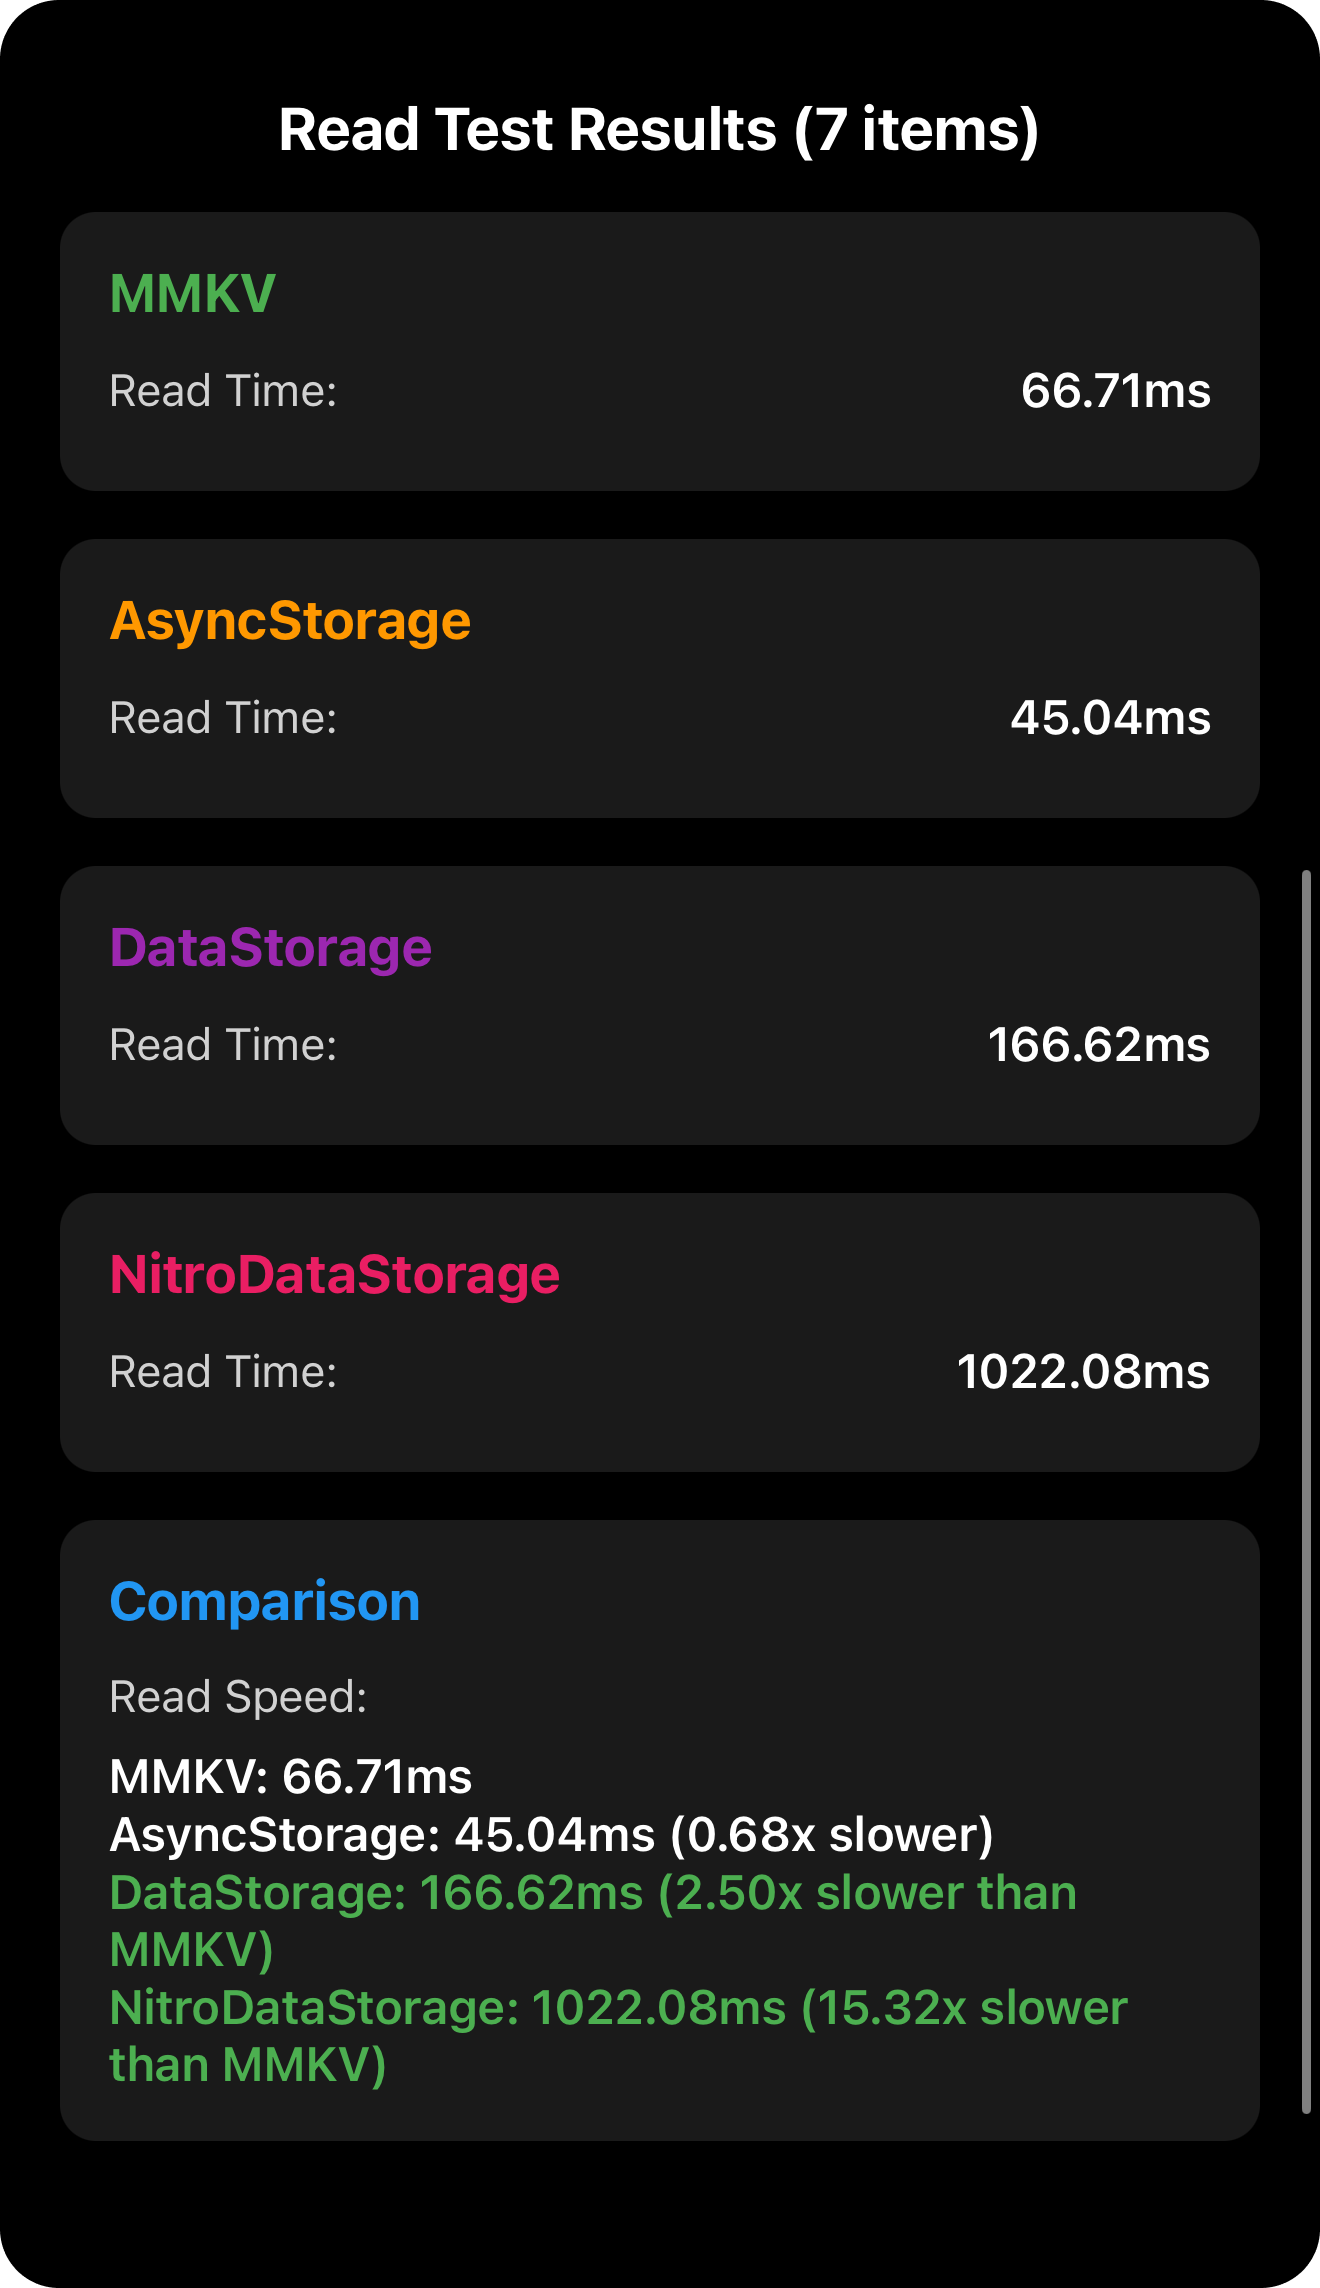
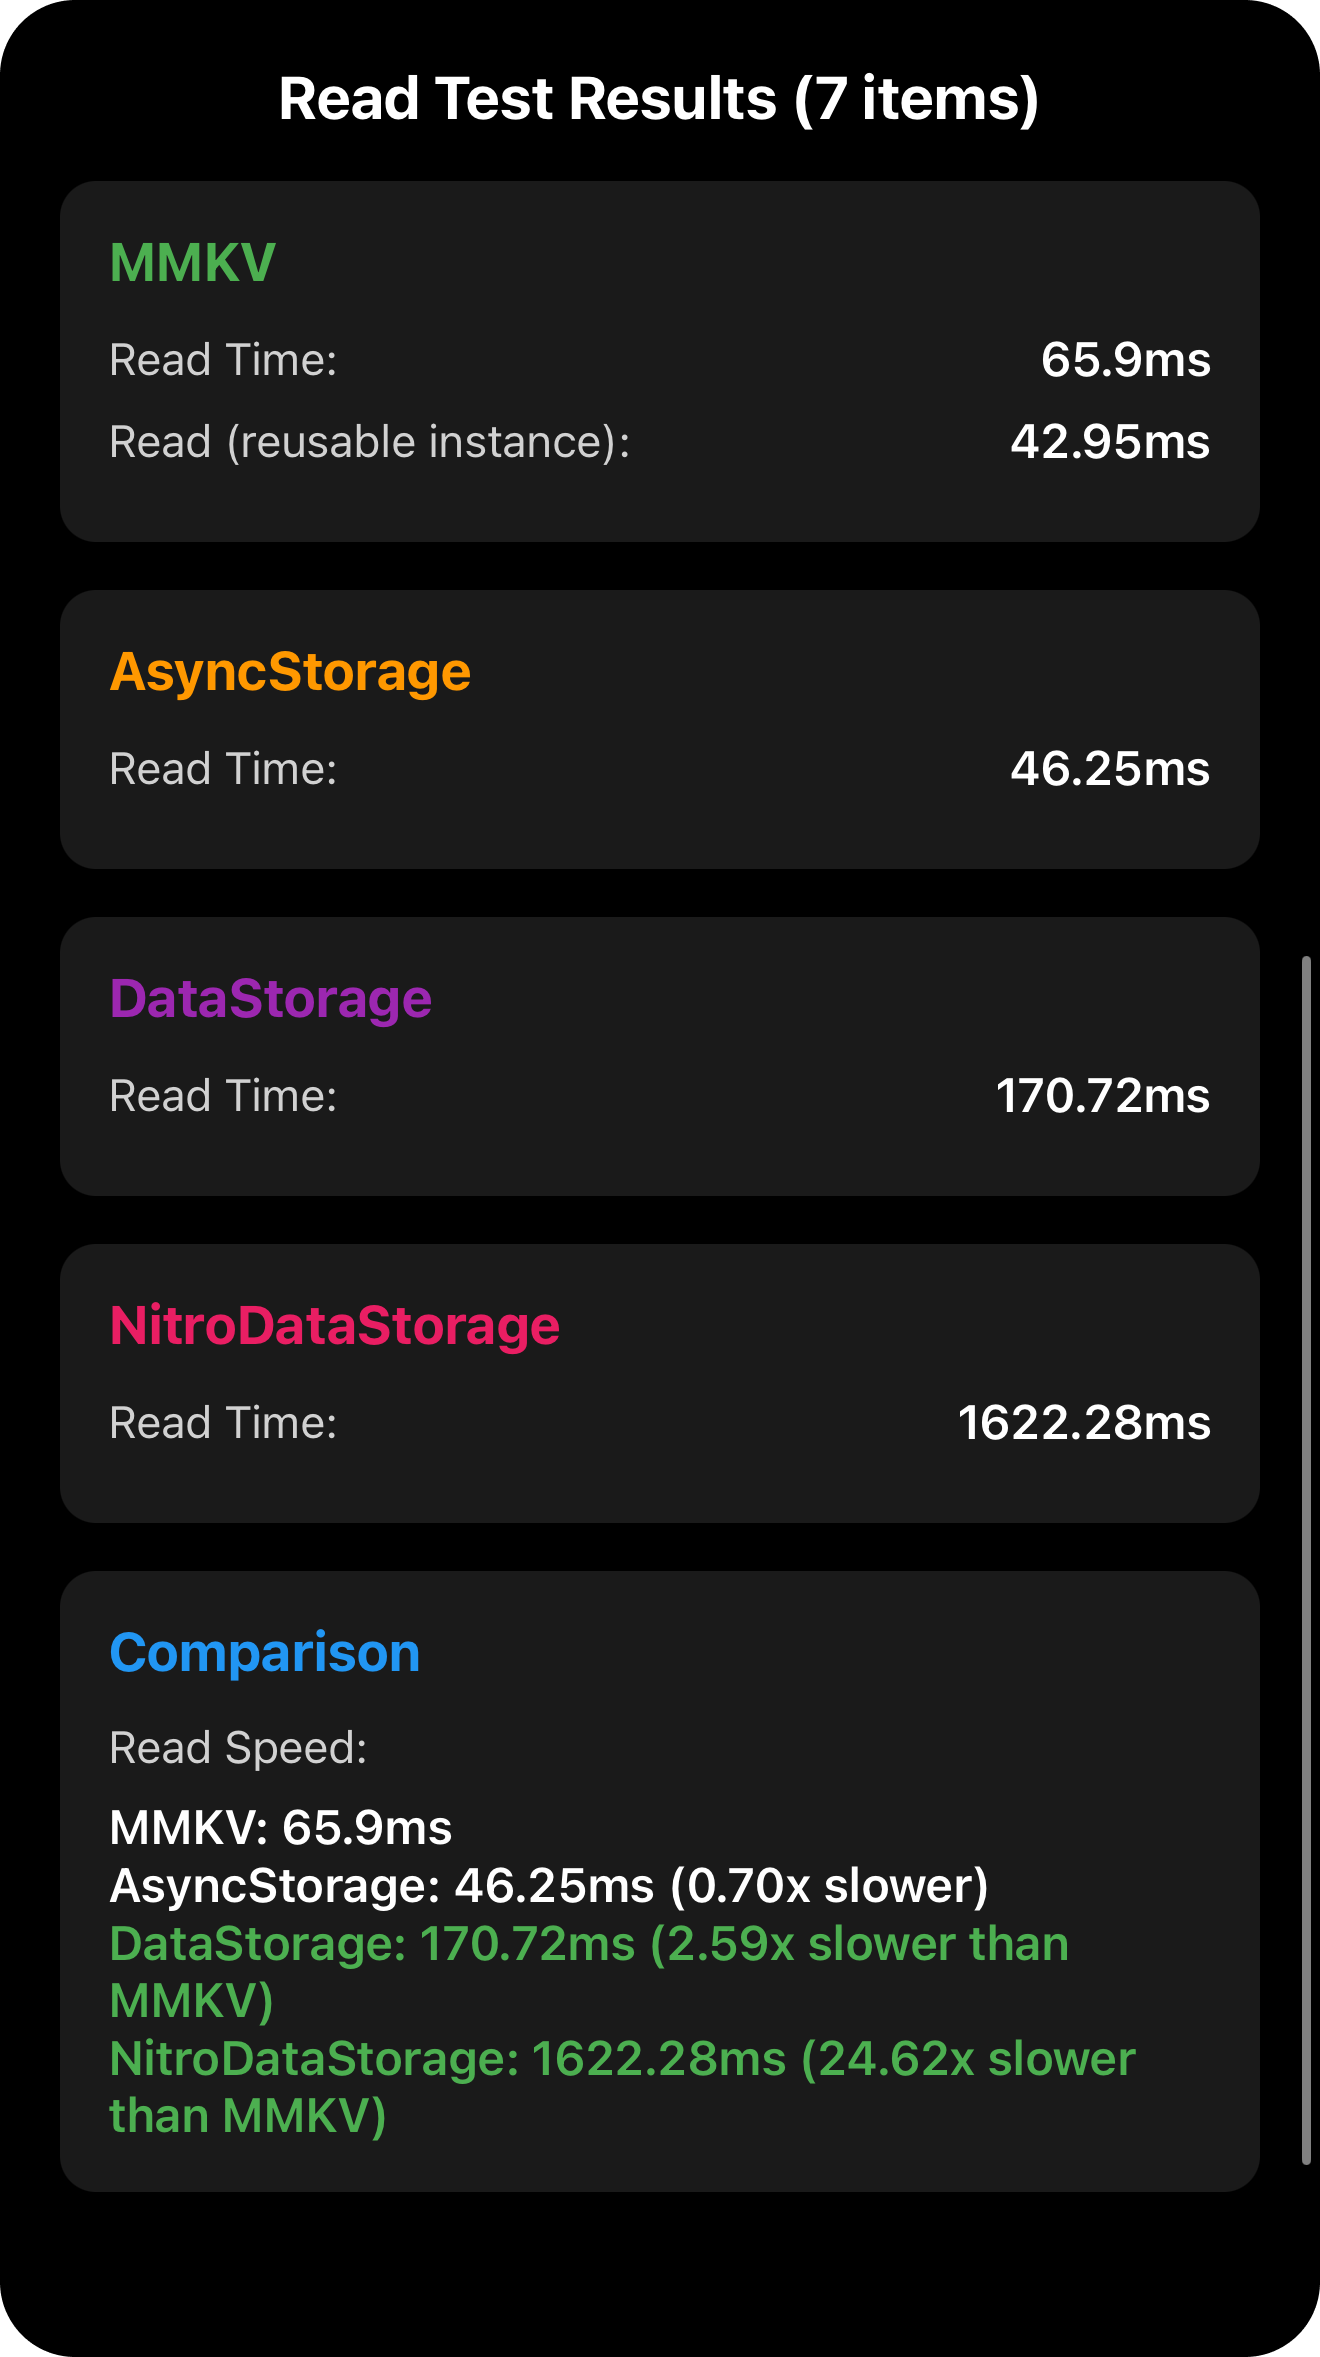
chore: update readme, images and add reusable instance test

diff --git a/performanceTest.ts b/performanceTest.ts
@@ -168,44 +168,68 @@ export const generateTestData = (count: number): Record<string, any> => {
 // Similar to redux-persist which uses 'persist:root' or similar key
 const ROOT_KEY = 'root';
 
+// Reusable MMKV instance (created once, reused for all operations)
+let reusableMmkvInstance: ReturnType<typeof createMMKV> | null = null;
+
+const getReusableMmkvInstance = () => {
+  if (!reusableMmkvInstance) {
+    reusableMmkvInstance = createMMKV();
+  }
+  return reusableMmkvInstance;
+};
+
 // MMKV Performance Tests
 // This approach mimics how redux-persist works:
 // 1. Serializes entire state object to JSON string
 // 2. Stores under single key
 // 3. No multiSet/multiGet - just one setItem/getItem operation
 export const testMmkvWrite = async (data: Record<string, string | number>) => {
-  // Initialize MMKV instance
+  // Test with new instance each time
   const mmkvStorage = createMMKV();
   const startTime = performance.now();
-
-  // Write entire object as JSON string to a single key
-  // This is exactly how redux-persist stores: JSON.stringify(state)
   mmkvStorage.set(ROOT_KEY, JSON.stringify(data));
-
   const totalTime = Math.round((performance.now() - startTime) * 100) / 100;
+
+  // Test with reusable instance
+  const reusableInstance = getReusableMmkvInstance();
+  const reusableStartTime = performance.now();
+  reusableInstance.set(ROOT_KEY, JSON.stringify(data));
+  const reusableTime =
+    Math.round((performance.now() - reusableStartTime) * 100) / 100;
 
   return {
     totalTime,
+    reusableTime,
   };
 };
 
 export const testMmkvRead = async () => {
+  // Test with new instance each time
   const startTime = performance.now();
-
   const mmkvStorage = createMMKV();
   const jsonStr = mmkvStorage.getString(ROOT_KEY);
 
   let itemsRead = 0;
   if (jsonStr) {
-    // Parse JSON back to object - same as redux-persist does
     const data = JSON.parse(jsonStr);
     itemsRead = Object.keys(data).length;
   }
-
   const readTime = Math.round((performance.now() - startTime) * 100) / 100;
+
+  // Test with reusable instance
+  const reusableInstance = getReusableMmkvInstance();
+  const reusableStartTime = performance.now();
+  const reusableJsonStr = reusableInstance.getString(ROOT_KEY);
+
+  if (reusableJsonStr) {
+    JSON.parse(reusableJsonStr);
+  }
+  const reusableReadTime =
+    Math.round((performance.now() - reusableStartTime) * 100) / 100;
 
   return {
     readTime,
+    reusableReadTime,
     itemsRead,
   };
 };
@@ -408,6 +432,7 @@ export const checkDataExists = (): {
 export interface WriteTestResults {
   mmkv: {
     writeTime: number;
+    reusableWriteTime: number;
   };
   asyncStorage: {
     writeTime: number;
@@ -425,6 +450,7 @@ export interface WriteTestResults {
 export interface ReadTestResults {
   mmkv: {
     readTime: number;
+    reusableReadTime: number;
     itemsRead: number;
   };
   asyncStorage: {
@@ -472,6 +498,7 @@ export const runWriteTests = async (
   return {
     mmkv: {
       writeTime: mmkvWriteResult.totalTime,
+      reusableWriteTime: mmkvWriteResult.reusableTime,
     },
     asyncStorage: {
       writeTime: asyncStorageWriteResult.totalTime,
@@ -507,6 +534,7 @@ export const runReadTests = async (): Promise<ReadTestResults> => {
   return {
     mmkv: {
       readTime: mmkvReadResult.readTime,
+      reusableReadTime: mmkvReadResult.reusableReadTime,
       itemsRead: mmkvReadResult.itemsRead,
     },
     asyncStorage: {

diff --git a/App.tsx b/App.tsx
@@ -51,6 +51,14 @@ function AppContent({ isDarkMode }: { isDarkMode: boolean }) {
   const [testType, setTestType] = useState<'write' | 'read' | null>(null);
   const [selectedCount, setSelectedCount] = useState(5000);
 
+  useEffect(() => {
+    console.log('Read Results Updated:', readResults);
+  }, [readResults]);
+
+  useEffect(() => {
+    console.log('Write Results Updated:', writeResults);
+  }, [writeResults]);
+
   const runWriteTest = async () => {
     setIsRunning(true);
     setTestType('write');
@@ -205,10 +213,18 @@ function AppContent({ isDarkMode }: { isDarkMode: boolean }) {
               <Text style={[styles.cardTitle, styles.mmkvColor]}>MMKV</Text>
               <View style={styles.metric}>
                 <Text style={[styles.metricLabel, { color: textColor }]}>
-                  Write Time:
+                  Cold Write Time:
                 </Text>
                 <Text style={[styles.metricValue, { color: textColor }]}>
                   {writeResults.mmkv.writeTime}ms
+                </Text>
+              </View>
+              <View style={styles.metric}>
+                <Text style={[styles.metricLabel, { color: textColor }]}>
+                  Write (reusable instance):
+                </Text>
+                <Text style={[styles.metricValue, { color: textColor }]}>
+                  {writeResults.mmkv.reusableWriteTime}ms
                 </Text>
               </View>
             </View>
@@ -318,10 +334,18 @@ function AppContent({ isDarkMode }: { isDarkMode: boolean }) {
               <Text style={[styles.cardTitle, styles.mmkvColor]}>MMKV</Text>
               <View style={styles.metric}>
                 <Text style={[styles.metricLabel, { color: textColor }]}>
-                  Read Time:
+                  Cold Read Time:
                 </Text>
                 <Text style={[styles.metricValue, { color: textColor }]}>
                   {readResults.mmkv.readTime}ms
+                </Text>
+              </View>
+              <View style={styles.metric}>
+                <Text style={[styles.metricLabel, { color: textColor }]}>
+                  Read (reusable instance):
+                </Text>
+                <Text style={[styles.metricValue, { color: textColor }]}>
+                  {readResults.mmkv.reusableReadTime}ms
                 </Text>
               </View>
             </View>

diff --git a/README.md b/README.md
@@ -30,19 +30,48 @@ This is a [**React Native**](https://reactnative.dev) project, bootstrapped usin
   <img src="assets/read-tests-50k.png" alt="Read Test Results - 50k" width="45%" />
 </div>
 
+### 150,000 Items
+
+<div align="center">
+  <img src="assets/write-tests-150k.png" alt="Write Test Results - 150k" width="45%" />
+  <img src="assets/read-tests-150k.png" alt="Read Test Results - 150k" width="45%" />
+</div>
+
+## Performance Data
+
+### Write Performance (ms)
+
+| Items   | AsyncStorage | MMKV   | MMKV (Reusable) | DataStorage | NitroDataStorage |
+| ------- | ------------ | ------ | --------------- | ----------- | ---------------- |
+| 5,000   | 9.51         | 21.28  | **8.92**        | 26.07       | 203.38           |
+| 25,000  | 36.59        | 64.15  | 40.88           | 102.94      | 1033.03          |
+| 50,000  | 73.95        | 131.51 | **72.89**       | 202.52      | 2012.43          |
+| 150,000 | 220.95       | 445.19 | **217.29**      | 603.05      | 6181.56          |
+
+### Read Performance (ms)
+
+| Items   | AsyncStorage | MMKV   | MMKV (Reusable) | DataStorage | NitroDataStorage |
+| ------- | ------------ | ------ | --------------- | ----------- | ---------------- |
+| 5,000   | 7.35         | 13.23  | 9.02            | 24.5        | 172.99           |
+| 25,000  | 24.9         | 41.46  | 29.9            | 88.2        | 835.48           |
+| 50,000  | 51.47        | 68.29  | **46.78**       | 174.82      | 1694.92          |
+| 150,000 | 149.14       | 158.23 | **127.47**      | 530.29      | 5187.49          |
+
+_Bold values indicate the fastest time for that test._
+
 ## About the Storage Solutions
 
 ### MMKV (react-native-mmkv)
 
-A fast, efficient key-value storage library that uses JSON serialization. Stores data as strings and requires parsing on read operations.
+A fast, efficient key-value storage library that uses JSON serialization. Stores data as strings and requires parsing on read operations. Supports a "reusable" buffer mode that significantly improves performance.
 
-**Performance**: Consistently 2nd fastest in testing, though 40-70% slower than AsyncStorage. Still a solid choice for most use cases.
+**Performance**: MMKV with reusable buffer is the fastest option in most tests, outperforming AsyncStorage in write operations (3/4 tests) and read operations at larger data sizes (2/4 tests).
 
 ### AsyncStorage
 
 The standard asynchronous storage solution for React Native. Uses JSON serialization and provides a promise-based API.
 
-**Performance**: Winner in all tests. Native JSON serialization optimizations make it the fastest option for storing large state trees.
+**Performance**: Consistently fast and competitive. Best for read operations at smaller data sizes. Native JSON serialization optimizations provide excellent baseline performance.
 
 ### DataStorage (Turbo Modules)
 
@@ -53,7 +82,7 @@ A custom implementation built using React Native's **Turbo Modules** architectur
 - Uses React Native's new architecture for improved bridge communication
 - Asynchronous operations through promises
 
-**Performance**: 2-4x slower than AsyncStorage. The bridge overhead and object serialization costs outweigh the benefits of direct object storage.
+**Performance**: 2-3x slower than AsyncStorage. The bridge overhead and object serialization costs outweigh the benefits of direct object storage.
 
 ### NitroDataStorage (Nitro Modules)
 
@@ -64,38 +93,45 @@ A custom implementation built using **Nitro Modules**:
 - **Direct object storage** - No JSON serialization needed
 - Leverages the most modern React Native architecture
 
-**Performance**: Currently 8-20x slower than AsyncStorage. The implementation may have performance issues that need optimization. Despite the theoretical advantages of synchronous calls and zero overhead, the current implementation underperforms significantly.
+**Performance**: Currently 20-35x slower than AsyncStorage. The implementation may have performance issues that need optimization. Despite the theoretical advantages of synchronous calls and zero overhead, the current implementation underperforms significantly.
 
 ## Key Findings
 
 Based on the performance tests across different data sizes (5k, 25k, 50k, and 150k items):
 
-1. **AsyncStorage** consistently shows the best performance across all test scenarios:
+1. **MMKV (Reusable Buffer)** is the fastest option for most operations:
 
-   - Fastest write operations at all data scales
-   - Fastest read operations at all data scales
-   - Efficient JSON serialization/deserialization optimized at the native level
-   - Winner in 100% of test cases (8 out of 8 tests)
+   - Fastest write operations in 3 out of 4 tests (5k, 50k, 150k items)
+   - Fastest read operations at larger data sizes (50k, 150k items)
+   - Up to 14% faster than AsyncStorage for writes at scale
+   - Up to 15% faster than AsyncStorage for reads at scale
 
-2. **MMKV** performs well but is consistently 40-70% slower than AsyncStorage:
+2. **AsyncStorage** remains highly competitive:
 
-   - Write operations: 0.49x-0.63x the speed of AsyncStorage
-   - Read operations: 0.64x-0.94x the speed of AsyncStorage
-   - Still a solid choice for key-value storage with good performance
+   - Fastest write at 25k items (36.59ms vs 40.88ms)
+   - Fastest read at smaller sizes (5k, 25k items)
+   - Excellent baseline performance with native JSON optimizations
+   - Reliable choice when MMKV reusable buffer isn't available
 
-3. **DataStorage (Turbo Modules)** despite direct object storage, is 2-4x slower than AsyncStorage:
+3. **MMKV (Standard)** is 40-100% slower than MMKV Reusable:
 
-   - Write operations: 0.34x-0.41x the speed of AsyncStorage
-   - Read operations: 0.26x-0.29x the speed of AsyncStorage
+   - Write operations: 1.6x-2.4x slower than reusable mode
+   - Read operations: 1.2x-1.5x slower than reusable mode
+   - Still faster than DataStorage and NitroDataStorage
+
+4. **DataStorage (Turbo Modules)** is 2-4x slower than AsyncStorage:
+
+   - Write operations: 0.34x-0.37x the speed of AsyncStorage
+   - Read operations: 0.28x-0.30x the speed of AsyncStorage
    - The overhead of Turbo Modules bridge and object serialization outweighs the benefits
 
-4. **NitroDataStorage (Nitro Modules)** shows unexpectedly poor performance, 8-20x slower than AsyncStorage:
+5. **NitroDataStorage (Nitro Modules)** shows unexpectedly poor performance, 20-35x slower than AsyncStorage:
 
-   - Write operations: 0.10x-0.13x the speed of AsyncStorage
-   - Read operations: 0.04x-0.06x the speed of AsyncStorage
+   - Write operations: 0.03x-0.05x the speed of AsyncStorage
+   - Read operations: 0.03x-0.04x the speed of AsyncStorage
    - Despite synchronous operations, the current implementation has significant performance issues
 
-**Conclusion**: For storing large state trees (as done in redux-persist), AsyncStorage's native JSON serialization optimizations make it the clear winner. Modern architectures (Turbo Modules and Nitro Modules) don't automatically guarantee better performance—implementation details and native optimizations matter more than the architecture itself.
+**Conclusion**: For storing large state trees (as done in redux-persist), **MMKV with reusable buffer** is the clear winner when available, with AsyncStorage as an excellent alternative. Modern architectures (Turbo Modules and Nitro Modules) don't automatically guarantee better performance—implementation details and native optimizations matter more than the architecture itself.
 
 ## Getting Started
 
